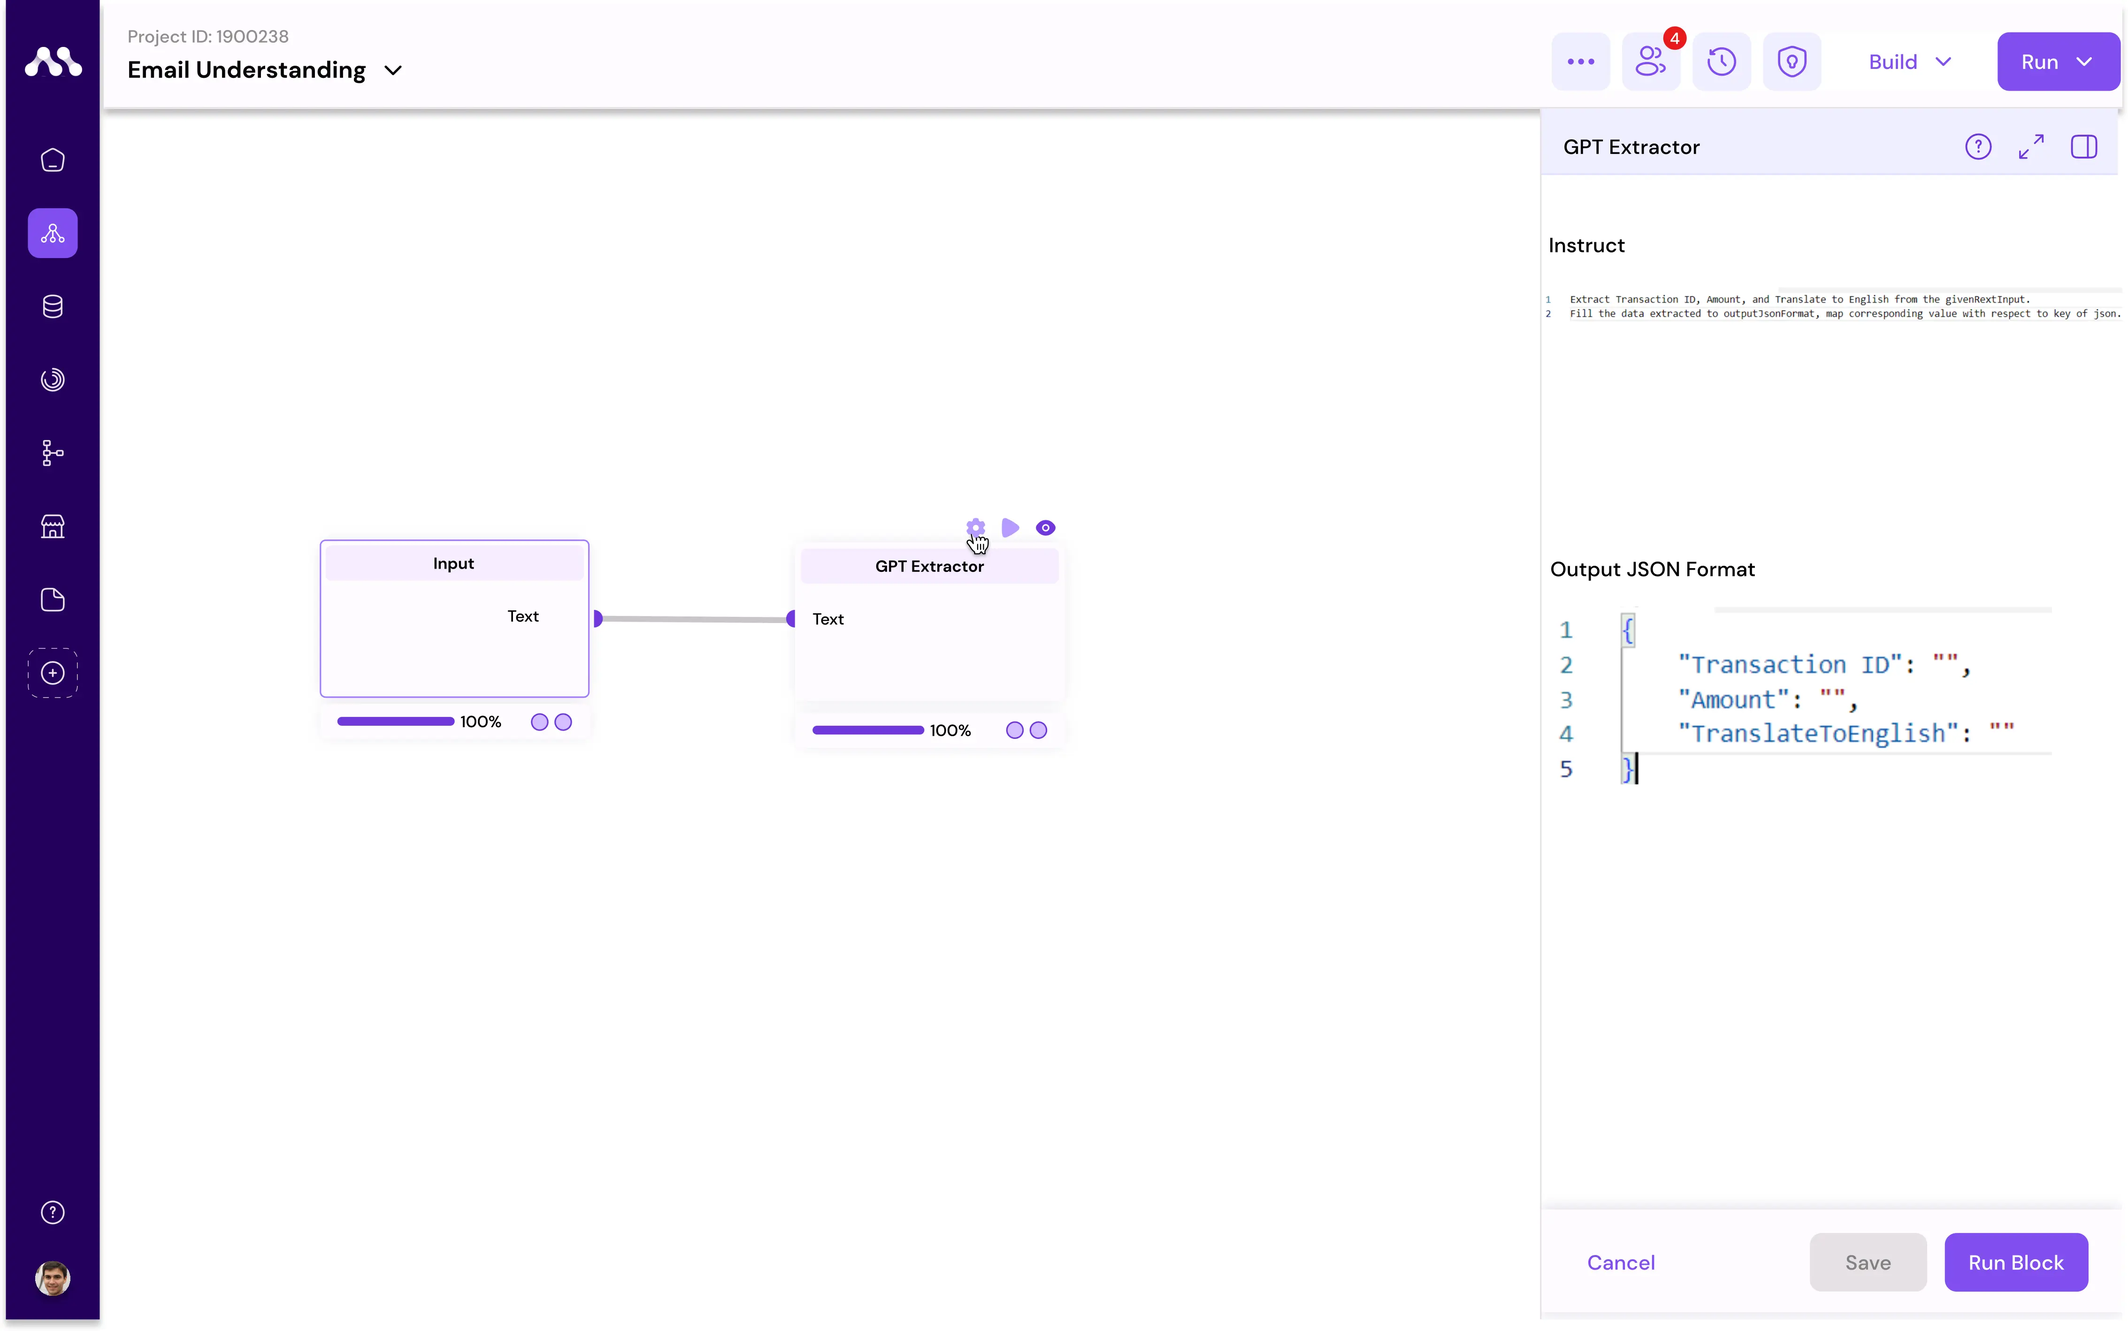
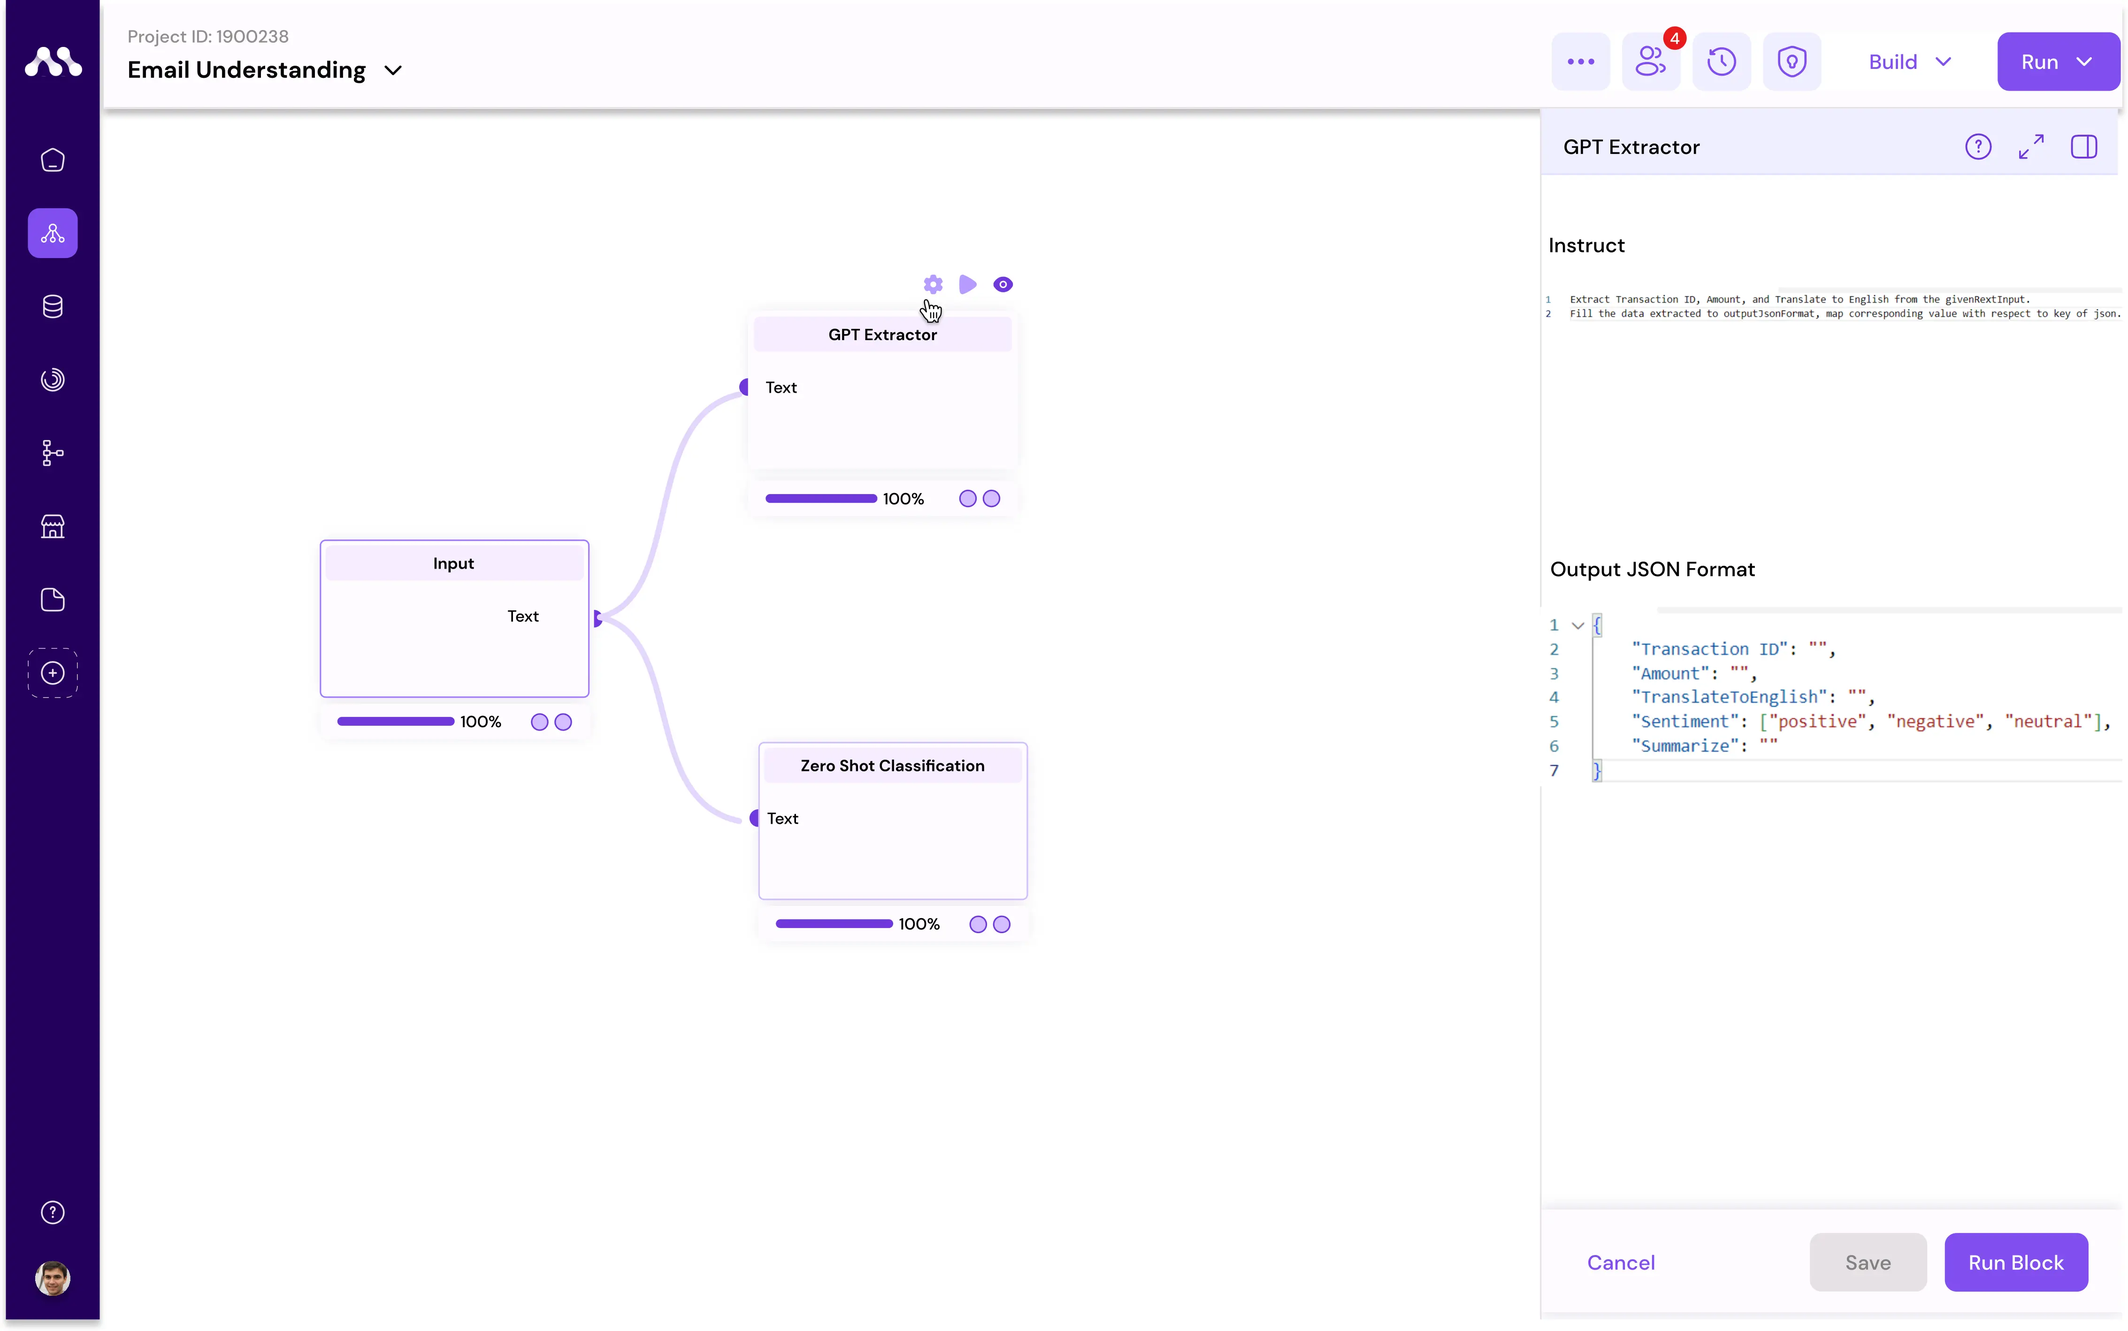
GITBOOK-17: No subject

diff --git a/flow.md b/flow.md
@@ -70,136 +70,3 @@ The Flow-page serves as a canvas where you can construct workflows by connecting
 * **Deploy**: When ready to take use cases live, deploy seamlessly using various modes (scheduled, Web Endpoint, or Event Driven).
 * **Redo**: Repeat the last undone action, useful for correcting mistakes or reapplying changes.
 * **Console**: The Console lets you see the activity logs of each block in your workflow. This helps you track what each block is doing and if there are any issues.
-
-### Example Use Case: Customer Email Understanding
-
-In this example, you'll understand emails and respond according to the email context using sample data and pre-built blocks.\\
-
-1. **Upload Dataset**:\
-   Upload the dataset to the default datastore provided by Augmatrix.io.
-
-Here is the sample dataset providing for testing purpose
-
-{% embed url="https://drive.google.com/file/d/1-YYFla8XHBaVICErVVgOirwLpMrSJTZR/view?usp=drive_link" %}
-sample data
-{% endembed %}
-
-1. **Create Sample Project**:\
-   Create a sample project in APPS.
-2. **Enter Project**: Access the project.
-3. **Open Component Store**:\
-   Open the component store.
-4. **Download Blocks**:\
-   Download input and GPT-extractor blocks.
-5. **Access Component Menu**:\
-   Navigate to the component menu.
-6. **Drag and Drop**:\
-   Drag and drop blocks to the workspace.
-
-
-
-<figure><img src=".gitbook/assets/emailflow.webp" alt=""><figcaption></figcaption></figure>
-
-7. **Configure Inputs**:\
-   1\. Use the editor menu to configure data for the input block. \
-   2\.  Select dataset of Email.\
-
-
-<figure><img src=".gitbook/assets/emailinput.webp" alt=""><figcaption></figcaption></figure>
-
-8. **Connect Blocks**:\
-   1\. Connect input block to the GPT-extractor block.\
-   2\. Drag a line between one block node to another block node to make connection.
-9. Configure GPT Extraction Block:\
-   1\. Fill the Details of instruct with this code.
-
-<pre><code><strong>Extract Transaction ID, Amount, and Translate to English from the givenRextInput.
-</strong>Fill the data extracted to outputJsonFormat, map corresponding value with respect to key of json.
-</code></pre>
-
-&#x20;    2\. Fill the Details of another code block with Output JSON to extract the Information.
-
-```
-{
-    "Transaction ID": "",
-    "Amount": "",
-    "TranslateToEnglish": ""
-}
-```
-
-<figure><img src=".gitbook/assets/emailgpt.webp" alt=""><figcaption></figcaption></figure>
-
-9. **Run All**:\
-   Click Run-All program to start the flow running sequentially.
-10. **Check Outputs**:\
-    Examine the output of individual blocks.
-
-
-
-<figure><img src=".gitbook/assets/emailoutput.webp" alt=""><figcaption></figcaption></figure>
-
-By following these steps, you'll effectively set up and run the email understanding workflow.
-
-### Pan-card Extraction Use-case
-
-In this example, we'll delve into the intricacies of the Pan Card extraction process. We'll explain each step of the workflow, detailing the configurations of individual blocks and the final output.
-
-Moreover, we'll showcase how this flow can be adapted for extracting Aadhaar cards or similar documents.
-
-<figure><img src=".gitbook/assets/panflow (1).webp" alt=""><figcaption></figcaption></figure>
-
-1. **Input Configuration:** Begin by configuring the dataset you wish to process and execute the respective block.
-   1. Select Dataset, Here Pan card is our dataset.
-
-<figure><img src=".gitbook/assets/paninput (1).webp" alt=""><figcaption></figcaption></figure>
-
-2. **OCR (Optical Character Recognition) Block:** The OCR block extracts data from images provided by the input block. It outputs the extracted data in both JSON and text formats.
-   1. Select the OCR engine to process, we've multiple, but you've to select at least one.
-   2. We've selected Google OCR.
-
-<figure><img src=".gitbook/assets/ocr.webp" alt=""><figcaption></figcaption></figure>
-
-3. **Rotate Block:** This block adjusts the angle of the card to ensure proper alignment for processing. It takes an image and OCR JSON as input to correct the orientation.
-   1. Rotate orientation must be select in the block level.
-   2. Select Auto.
-
-<figure><img src=".gitbook/assets/panrotate.webp" alt=""><figcaption></figcaption></figure>
-
-4. **Constant Block:** Containing fixed information of a reference image, this block serves as a benchmark for aligning input card images. It provides a standard reference for comparison
-   1. select Any Pan-card reference image.
-
-<figure><img src=".gitbook/assets/constant (1).webp" alt=""><figcaption></figcaption></figure>
-
-Here we've provided one sample reference image to extract
-
-5. **OCR (Constant Block):** Similar to the OCR block, this component processes the reference image provided by the Constant Block and produces JSON and text outputs.
-   1. Same as top OCR, we've selected Google OCR.
-
-<figure><img src=".gitbook/assets/COnstatnocr.webp" alt=""><figcaption></figcaption></figure>
-
-6. **Rotate Block (Constant Block):** This block, like the previous Rotate Block, corrects the orientation of the reference image based on the OCR results obtained from the Constant Block.
-
-<figure><img src=".gitbook/assets/constantrotate.webp" alt=""><figcaption></figcaption></figure>
-
-6. **Alignment Block:** Utilizing the data from the Constant Block, this component aligns the information extracted from input cards with the standard reference.
-7. **Annotation Block:** Primarily used for labelling data, the Annotation Block annotates the extracted information and facilitates the extraction of labelled data.
-   1. Here the data labelling will happen for this one we need to label studio code here is the sample code.
-
-```
-<View>
-  <Image name="image" value="$image"/>
-  <RectangleLabels name="label" toName="image">
-    <Label value="Name" background="yellow"/>
-    <Label value=" PAN" background="green"/>
-    <Label value="DOB" background="blue"/>
-  </RectangleLabels>
-</View>
-```
-
-<figure><img src=".gitbook/assets/annotation.jpg" alt=""><figcaption></figcaption></figure>
-
-9. **Output:** The final output encapsulates comprehensive information, including aligned data and labelled information, providing a cohesive overview of the extracted data.
-
-<figure><img src=".gitbook/assets/panoutput.webp" alt=""><figcaption></figcaption></figure>
-
-By following, the above structured workflow and configuring each block appropriately, one can efficiently extract data from Pan Cards or similar documents. This adaptable approach can be extended to extract data from various document types, such as Aadhaar cards, with minor adjustments to the configurations.

diff --git a/use-case-4.md b/use-case-4.md
@@ -1,0 +1,65 @@
+# Use case 4
+
+### Pan-card Extraction Use-case
+
+In this example, we'll delve into the intricacies of the Pan Card extraction process. We'll explain each step of the workflow, detailing the configurations of individual blocks and the final output.
+
+Moreover, we'll showcase how this flow can be adapted for extracting Aadhaar cards or similar documents.
+
+<figure><img src=".gitbook/assets/panflow (1).webp" alt=""><figcaption></figcaption></figure>
+
+1. **Input Configuration:** Begin by configuring the dataset you wish to process and execute the respective block.
+   1. Select Dataset, Here Pan card is our dataset.
+
+<figure><img src=".gitbook/assets/paninput (1).webp" alt=""><figcaption></figcaption></figure>
+
+2. **OCR (Optical Character Recognition) Block:** The OCR block extracts data from images provided by the input block. It outputs the extracted data in both JSON and text formats.
+   1. Select the OCR engine to process, we've multiple, but you've to select at least one.
+   2. We've selected Google OCR.
+
+<figure><img src=".gitbook/assets/ocr.webp" alt=""><figcaption></figcaption></figure>
+
+3. **Rotate Block:** This block adjusts the angle of the card to ensure proper alignment for processing. It takes an image and OCR JSON as input to correct the orientation.
+   1. Rotate orientation must be select in the block level.
+   2. Select Auto.
+
+<figure><img src=".gitbook/assets/panrotate.webp" alt=""><figcaption></figcaption></figure>
+
+4. **Constant Block:** Containing fixed information of a reference image, this block serves as a benchmark for aligning input card images. It provides a standard reference for comparison
+   1. select Any Pan-card reference image.
+
+<figure><img src=".gitbook/assets/constant (1).webp" alt=""><figcaption></figcaption></figure>
+
+Here we've provided one sample reference image to extract
+
+5. **OCR (Constant Block):** Similar to the OCR block, this component processes the reference image provided by the Constant Block and produces JSON and text outputs.
+   1. Same as top OCR, we've selected Google OCR.
+
+<figure><img src=".gitbook/assets/COnstatnocr.webp" alt=""><figcaption></figcaption></figure>
+
+6. **Rotate Block (Constant Block):** This block, like the previous Rotate Block, corrects the orientation of the reference image based on the OCR results obtained from the Constant Block.
+
+<figure><img src=".gitbook/assets/constantrotate.webp" alt=""><figcaption></figcaption></figure>
+
+6. **Alignment Block:** Utilizing the data from the Constant Block, this component aligns the information extracted from input cards with the standard reference.
+7. **Annotation Block:** Primarily used for labelling data, the Annotation Block annotates the extracted information and facilitates the extraction of labelled data.
+   1. Here the data labelling will happen for this one we need to label studio code here is the sample code.
+
+```
+<View>
+  <Image name="image" value="$image"/>
+  <RectangleLabels name="label" toName="image">
+    <Label value="Name" background="yellow"/>
+    <Label value=" PAN" background="green"/>
+    <Label value="DOB" background="blue"/>
+  </RectangleLabels>
+</View>
+```
+
+<figure><img src=".gitbook/assets/annotation.jpg" alt=""><figcaption></figcaption></figure>
+
+9. **Output:** The final output encapsulates comprehensive information, including aligned data and labelled information, providing a cohesive overview of the extracted data.
+
+<figure><img src=".gitbook/assets/panoutput.webp" alt=""><figcaption></figcaption></figure>
+
+By following, the above structured workflow and configuring each block appropriately, one can efficiently extract data from Pan Cards or similar documents. This adaptable approach can be extended to extract data from various document types, such as Aadhaar cards, with minor adjustments to the configurations.

diff --git a/use-case-3.md b/use-case-3.md
@@ -1,0 +1,91 @@
+# Use case 3
+
+### Advanced Customer Email Understanding
+
+From above use-case 2 you have learnt about customer email understanding on the basis of sentiment and summary, In this scenario, we're implementing a custom text classification block for understanding customer emails based on sentiment and summary. The process involves data preparation, model training, deployment, and endpoint integration.
+
+For this process we'll use old flow which is used in use-case&#x20;
+
+1. Get into the Create Project Page,
+2. Click on options
+3. Click on Duplicate
+4. click on the duplicated project and click rename&#x20;
+
+Next step adding Another addition block to the Same flow&#x20;
+
+1. **Download Block**:\
+   Download Annotation block for Data preparation
+2. **Access Component Menu**:\
+   Navigate to the component menu.
+3. **Drag and Drop**:\
+   Drag and drop blocks to the workspace.
+
+
+
+<figure><img src=".gitbook/assets/emailflow.webp" alt=""><figcaption></figcaption></figure>
+
+7. **Configure Inputs**:\
+   1\. Use the editor menu to configure data for the input block. \
+   2\.  Select dataset of Email.\
+
+
+<figure><img src=".gitbook/assets/emailinput (1).webp" alt=""><figcaption></figcaption></figure>
+
+8. **Connect Blocks**:\
+   1\. Connect input block to the GPT-extractor block.\
+   2\. Drag a line between one block node to another block node to make connection.
+9. **Configure GPT Extraction Block:**\
+   1\. Fill the Details of instruct with this code.
+
+<pre><code><strong>Extract Transaction ID, Amount, and Translate to English from the givenRextInput.
+</strong>Fill the data extracted to outputJsonFormat, map corresponding value with respect to key of json.
+</code></pre>
+
+&#x20;    2\. Fill the Details of another code block with Output JSON to extract the Information.
+
+```
+{
+    "Transaction ID": "",
+    "Amount": "",
+    "TranslateToEnglish": ""
+}
+```
+
+<figure><img src=".gitbook/assets/image (6).png" alt=""><figcaption></figcaption></figure>
+
+9. **Configure Zero-Shot Classification Block:**
+   1. Configure the block with different labels to understand the emails
+   2. labels are likely to be payment, delivery, food menu, coupons.&#x20;
+
+<figure><img src=".gitbook/assets/emailzero (1).webp" alt=""><figcaption></figcaption></figure>
+
+10. **Configure Annotation Block**
+    1. add Labelstudio code to fix the labels
+
+```json
+<View>
+  <Text name="text" value="$text"/>
+  <Choices name="topics" toName="text" choice="single">
+    <Choice value="Payment"/>
+    <Choice value="food menu"/>
+    <Choice value="coupons"/>
+    <Choice value="delivery"/>
+  </Choices>
+</View>
+```
+
+<figure><img src=".gitbook/assets/emailannotation.webp" alt=""><figcaption></figcaption></figure>
+
+10. **Run All**:
+    1. Click Run-All program to start the flow running sequentially.
+
+
+
+<figure><img src=".gitbook/assets/emailoutput.webp" alt=""><figcaption></figcaption></figure>
+
+11. Go to the annotation Studio, and label the email based on the context&#x20;
+    1. click on save annotation
+    2. give a name and select text-classification pipeline
+    3. click on save&#x20;
+
+By following these steps, you'll effectively set up and run the email understanding workflow.

diff --git a/use-case-2.md b/use-case-2.md
@@ -1,0 +1,76 @@
+# Use case 2
+
+### Customer Email Understanding
+
+In this example, you'll understand email analysis and response system for restaurant transactions, efficiently manages various email types, including inquiries on payments, transactions, and menus. It parses emails, gauges sender sentiment, summarizes content, and extracts essential information for quick responses. By automating these processes, our system enhances communication, improves accuracy, and boosts customer satisfaction. Additionally, it provides valuable insights into customer preferences, aiding in better decision-making for restaurant operations.&#x20;
+
+1. **Upload Dataset**:\
+   Upload the dataset to the default datastore provided by Augmatrix.io.
+
+Here is the sample dataset providing for testing purpose
+
+{% embed url="https://drive.google.com/file/d/1-YYFla8XHBaVICErVVgOirwLpMrSJTZR/view?usp=drive_link" %}
+sample data
+{% endembed %}
+
+1. **Create Sample Project**:\
+   Create a sample project in APPS.
+2. **Enter Project**: Access the project.
+3. **Open Component Store**:\
+   Open the component store.
+4. **Download Blocks**:\
+   Download input, GPT-Extractor block and Zero-shot Classification blocks.&#x20;
+5. **Access Component Menu**:\
+   Navigate to the component menu.
+6. **Drag and Drop**:\
+   Drag and drop blocks to the workspace.
+
+
+
+<figure><img src=".gitbook/assets/emailflow.webp" alt=""><figcaption></figcaption></figure>
+
+7. **Configure Inputs**:\
+   1\. Use the editor menu to configure data for the input block. \
+   2\.  Select dataset of Email.\
+
+
+<figure><img src=".gitbook/assets/emailinput (1).webp" alt=""><figcaption></figcaption></figure>
+
+8. **Connect Blocks**:\
+   1\. Connect input block to the GPT-extractor block.\
+   2\. Drag a line between one block node to another block node to make connection.
+9. **Configure GPT Extraction Block:**\
+   1\. Fill the Details of instruct with this code.
+
+<pre><code><strong>Extract Transaction ID, Amount, and Translate to English from the givenRextInput.
+</strong>Fill the data extracted to outputJsonFormat, map corresponding value with respect to key of json.
+</code></pre>
+
+&#x20;    2\. Fill the Details of another code block with Output JSON to extract the Information.
+
+```
+{
+    "Transaction ID": "",
+    "Amount": "",
+    "TranslateToEnglish": ""
+}
+```
+
+<figure><img src=".gitbook/assets/emailgpt.webp" alt=""><figcaption></figcaption></figure>
+
+9. **Configure Zero-Shot Classification Block:**
+   1. Configure the block with different labels to understand the emails
+   2. labels are likely to be payment, delivery, food menu, coupons.&#x20;
+
+<figure><img src=".gitbook/assets/emailzero.webp" alt=""><figcaption></figcaption></figure>
+
+10. **Run All**:
+    1. Click Run-All program to start the flow running sequentially.
+11. **Check Outputs**:
+    1. Examine the output of individual blocks.
+
+
+
+<figure><img src=".gitbook/assets/emailoutput.webp" alt=""><figcaption></figcaption></figure>
+
+By following these steps, you'll effectively set up and run the email understanding workflow.

diff --git a/SUMMARY.md b/SUMMARY.md
@@ -6,3 +6,6 @@
 * [Flow](flow.md)
 * [Annotation](annotation.md)
 * [MLOps](mlops.md)
+* [Use case 2](use-case-2.md)
+* [Use case 3](use-case-3.md)
+* [Use case 4](use-case-4.md)
